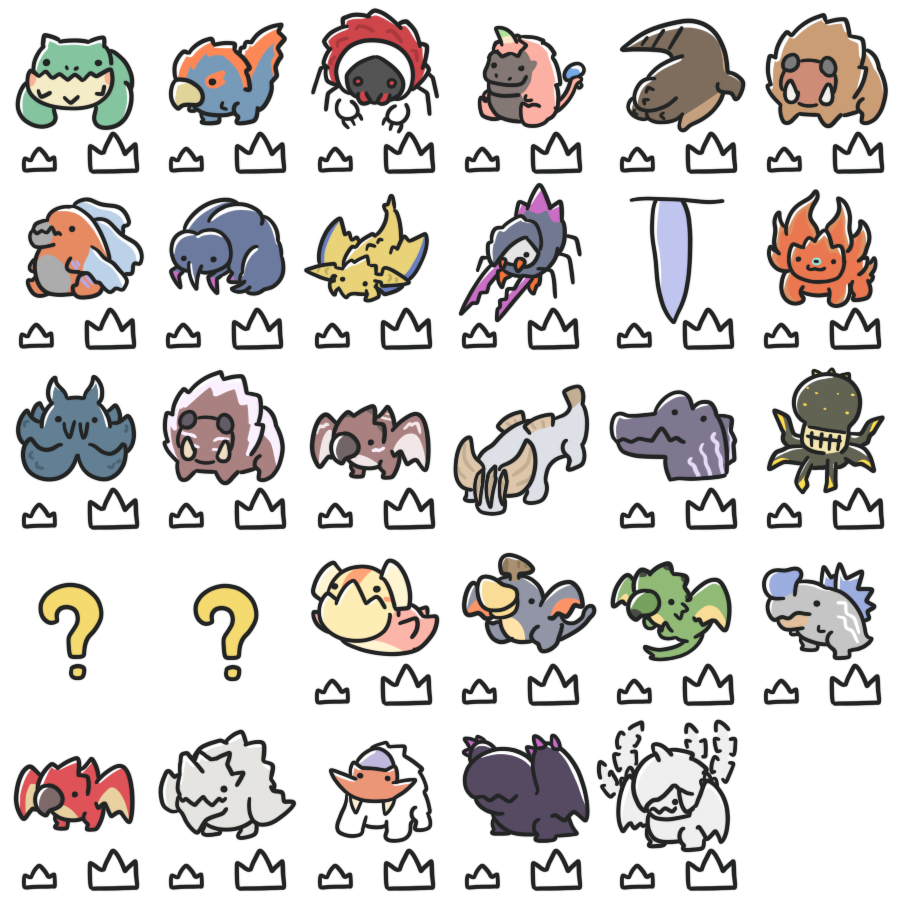
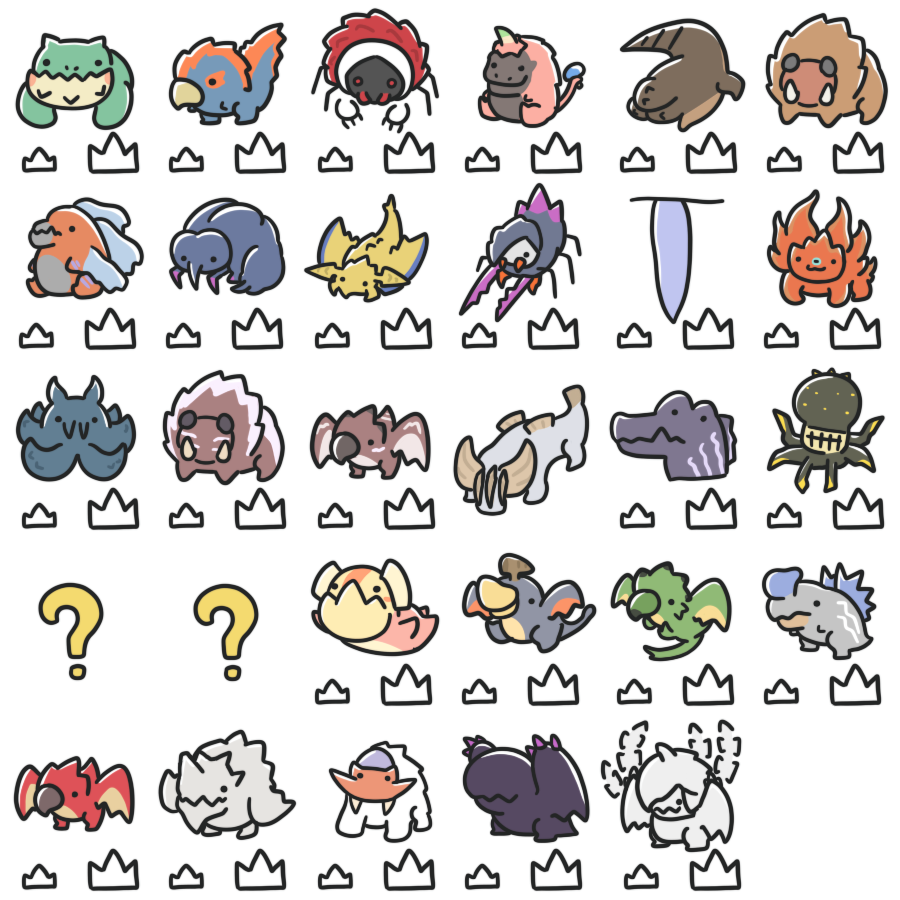
feat: Add crown area

Changed region(s): [[0.6533, 0.7778, 0.84, 0.9956]]

diff --git a/src/components/ui/button.tsx b/src/components/ui/button.tsx
@@ -1,0 +1,59 @@
+import * as React from "react"
+import { Slot } from "@radix-ui/react-slot"
+import { cva, type VariantProps } from "class-variance-authority"
+
+import { cn } from "@/lib/utils"
+
+const buttonVariants = cva(
+  "inline-flex items-center justify-center gap-2 whitespace-nowrap rounded-md text-sm font-medium transition-all disabled:pointer-events-none disabled:opacity-50 [&_svg]:pointer-events-none [&_svg:not([class*='size-'])]:size-4 shrink-0 [&_svg]:shrink-0 outline-none focus-visible:border-ring focus-visible:ring-ring/50 focus-visible:ring-[3px] aria-invalid:ring-destructive/20 dark:aria-invalid:ring-destructive/40 aria-invalid:border-destructive",
+  {
+    variants: {
+      variant: {
+        default:
+          "bg-primary text-primary-foreground shadow-xs hover:bg-primary/90",
+        destructive:
+          "bg-destructive text-white shadow-xs hover:bg-destructive/90 focus-visible:ring-destructive/20 dark:focus-visible:ring-destructive/40 dark:bg-destructive/60",
+        outline:
+          "border bg-background shadow-xs hover:bg-accent hover:text-accent-foreground dark:bg-input/30 dark:border-input dark:hover:bg-input/50",
+        secondary:
+          "bg-secondary text-secondary-foreground shadow-xs hover:bg-secondary/80",
+        ghost:
+          "hover:bg-accent hover:text-accent-foreground dark:hover:bg-accent/50",
+        link: "text-primary underline-offset-4 hover:underline",
+      },
+      size: {
+        default: "h-9 px-4 py-2 has-[>svg]:px-3",
+        sm: "h-8 rounded-md gap-1.5 px-3 has-[>svg]:px-2.5",
+        lg: "h-10 rounded-md px-6 has-[>svg]:px-4",
+        icon: "size-9",
+      },
+    },
+    defaultVariants: {
+      variant: "default",
+      size: "default",
+    },
+  }
+)
+
+function Button({
+  className,
+  variant,
+  size,
+  asChild = false,
+  ...props
+}: React.ComponentProps<"button"> &
+  VariantProps<typeof buttonVariants> & {
+    asChild?: boolean
+  }) {
+  const Comp = asChild ? Slot : "button"
+
+  return (
+    <Comp
+      data-slot="button"
+      className={cn(buttonVariants({ variant, size, className }))}
+      {...props}
+    />
+  )
+}
+
+export { Button, buttonVariants }

diff --git a/src/components/ui/tooltip.tsx b/src/components/ui/tooltip.tsx
@@ -1,0 +1,59 @@
+import * as React from "react"
+import * as TooltipPrimitive from "@radix-ui/react-tooltip"
+
+import { cn } from "@/lib/utils"
+
+function TooltipProvider({
+  delayDuration = 0,
+  ...props
+}: React.ComponentProps<typeof TooltipPrimitive.Provider>) {
+  return (
+    <TooltipPrimitive.Provider
+      data-slot="tooltip-provider"
+      delayDuration={delayDuration}
+      {...props}
+    />
+  )
+}
+
+function Tooltip({
+  ...props
+}: React.ComponentProps<typeof TooltipPrimitive.Root>) {
+  return (
+    <TooltipProvider>
+      <TooltipPrimitive.Root data-slot="tooltip" {...props} />
+    </TooltipProvider>
+  )
+}
+
+function TooltipTrigger({
+  ...props
+}: React.ComponentProps<typeof TooltipPrimitive.Trigger>) {
+  return <TooltipPrimitive.Trigger data-slot="tooltip-trigger" {...props} />
+}
+
+function TooltipContent({
+  className,
+  sideOffset = 0,
+  children,
+  ...props
+}: React.ComponentProps<typeof TooltipPrimitive.Content>) {
+  return (
+    <TooltipPrimitive.Portal>
+      <TooltipPrimitive.Content
+        data-slot="tooltip-content"
+        sideOffset={sideOffset}
+        className={cn(
+          "bg-primary text-primary-foreground animate-in fade-in-0 zoom-in-95 data-[state=closed]:animate-out data-[state=closed]:fade-out-0 data-[state=closed]:zoom-out-95 data-[side=bottom]:slide-in-from-top-2 data-[side=left]:slide-in-from-right-2 data-[side=right]:slide-in-from-left-2 data-[side=top]:slide-in-from-bottom-2 z-50 w-fit origin-(--radix-tooltip-content-transform-origin) rounded-md px-3 py-1.5 text-xs text-balance",
+          className
+        )}
+        {...props}
+      >
+        {children}
+        <TooltipPrimitive.Arrow className="bg-primary fill-primary z-50 size-2.5 translate-y-[calc(-50%_-_2px)] rotate-45 rounded-[2px]" />
+      </TooltipPrimitive.Content>
+    </TooltipPrimitive.Portal>
+  )
+}
+
+export { Tooltip, TooltipTrigger, TooltipContent, TooltipProvider }

diff --git a/src/Mobs/constants.ts b/src/Mobs/constants.ts
@@ -1,4 +1,11 @@
-export const MOBS = [
+type Mob = {
+  name: string;
+  zhName: string;
+  className: string;
+  noSize?: boolean;
+};
+
+export const MOBS: Mob[] = [
   { name: 'Chatacabra', zhName: '纏蛙', className: 'chatacabra' },
   { name: 'Quematrice', zhName: '炎尾龍', className: 'quematrice' },
   { name: 'Lala Barina', zhName: '刺花蜘蛛', className: 'lala-barina' },
@@ -14,11 +21,11 @@ export const MOBS = [
   { name: 'Nu Udra', zhName: '獄焰鱆', className: 'nu-udra' },
   { name: 'Guardian Doshaguma', zhName: '護闢獸', className: 'guardian-doshaguma' },
   { name: 'Guardian Rathalos', zhName: '護火龍', className: 'guardian-rathalos' },
-  { name: 'Jin Dahaad', zhName: '凍峰龍', className: 'jin-dahaad' },
+  { name: 'Jin Dahaad', zhName: '凍峰龍', className: 'jin-dahaad', noSize: true },
   { name: 'Guardian Ebony Odogaron', zhName: '護兇爪龍', className: 'guardian-ebony-odogaron' },
   { name: 'Xu Wu', zhName: '暗器鱆', className: 'xu-wu' },
-  { name: 'Guardian Arkveld', zhName: '護鎖刃龍', className: 'guardian-arkveld' },
-  { name: 'Zoh Shia', zhName: '白熾龍', className: 'zoh-shia' },
+  { name: 'Guardian Arkveld', zhName: '護鎖刃龍', className: 'guardian-arkveld', noSize: true },
+  { name: 'Zoh Shia', zhName: '白熾龍', className: 'zoh-shia', noSize: true },
   { name: 'Yian Kut Ku', zhName: '怪鳥', className: 'yian-kut-ku' },
   { name: 'Gypceros', zhName: '毒怪鳥', className: 'gypceros' },
   { name: 'Rathian', zhName: '雌火龍', className: 'rathian' },

diff --git a/src/Mobs/Mobs.css b/src/Mobs/Mobs.css
@@ -1,6 +1,6 @@
 :root {
   --mob-origin-width: 150;
-  --mob-grid-min-width: 96;
+  --mob-grid-min-width: 108;
   --mob-ratio: calc(var(--mob-grid-min-width) / var(--mob-origin-width));
   --mob-grid-min-width-px: calc(var(--mob-grid-min-width) * 1px);
 }
@@ -9,19 +9,21 @@
   position: relative;
   display: grid;
   grid-template-columns: repeat(6, minmax(var(--mob-grid-min-width-px), 1fr));
-  gap: 16px;
+  gap: 24px;
   width: calc(var(--mob-grid-min-width) * 6px + 16px * 5);
-  padding: 40px;
 }
 
 .source {
   background-image: url('./source.png');
-  width: 147px;
-  height: 194px;
-  position: absolute;
-  bottom: 0;
-  right: 0;
-  transform: scale(var(--mob-ratio));
+  /* width: 147px; */
+  /* height: 194px; */
+  /* position: absolute; */
+  /* bottom: -24px; */
+  /* right: -24px; */
+  /* transform: scale(var(--mob-ratio)); */
+  background-size: calc(100% * 0.85);
+  transform-origin: top left;
+  background-repeat: no-repeat;
 }
 
 .mob {
@@ -34,6 +36,25 @@
   width: 100%;
   padding-bottom: 120%;
   background-size: 600% 500%;
+}
+
+.mob .crown {
+  position: absolute;
+  bottom: 0;
+  cursor: pointer;
+  width: 50%;
+}
+
+.mob .crown.small {
+  left: 0;
+  height: 35px;
+  border: solid 1px blue;
+}
+
+.mob .crown.big {
+  right: 0;
+  height: 45px;
+  border: solid 1px blue;
 }
 
 /* 纏蛙 */

diff --git a/src/Mobs/Mobs.tsx b/src/Mobs/Mobs.tsx
@@ -1,17 +1,24 @@
+import { Fragment } from 'react';
 import { clsx } from 'clsx';
+import { Tooltip, TooltipContent, TooltipTrigger } from '@/components/ui/tooltip';
 import { MOBS } from './constants';
 import './Mobs.css';
-import { Tooltip, TooltipContent, TooltipTrigger } from '@radix-ui/react-tooltip';
-import { Fragment } from 'react';
 
 export function Mobs() {
   return (
-    <div className="mobs-grid">
+    <div className="mobs-grid m-10">
       {MOBS.map((mob) => (
         <Fragment key={mob.className}>
           <Tooltip>
             <TooltipTrigger asChild>
-              <div className={clsx(['mob', mob.className])} />
+              <div className={clsx(['mob', mob.className])}>
+                {mob.noSize ? null : (
+                  <>
+                    <div className="crown small" />
+                    <div className="crown big" />
+                  </>
+                )}
+              </div>
             </TooltipTrigger>
             <TooltipContent side="top" align="center">
               <p>{mob.zhName}</p>

diff --git a/src/App.tsx b/src/App.tsx
@@ -1,10 +1,14 @@
-import { TooltipProvider } from '@radix-ui/react-tooltip';
+import { Button } from '@/components/ui/button';
+import { TooltipProvider } from '@/components/ui/tooltip';
 import { Mobs } from './Mobs/Mobs';
 
 function App() {
   return (
     <TooltipProvider>
       <Mobs />
+      <div className="flex flex-col items-center justify-center min-h-svh">
+        <Button>Click me</Button>
+      </div>
     </TooltipProvider>
   );
 }

diff --git a/src/index.css b/src/index.css
@@ -4,9 +4,6 @@
 
 @custom-variant dark (&:is(.dark *));
 
-@import '@radix-ui/colors/black-alpha.css';
-@import '@radix-ui/colors/violet.css';
-
 :root {
   --radius: 0.625rem;
   --background: oklch(1 0 0);
